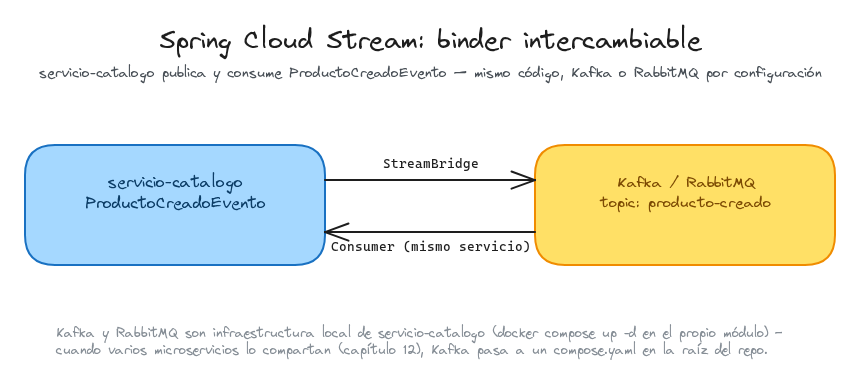
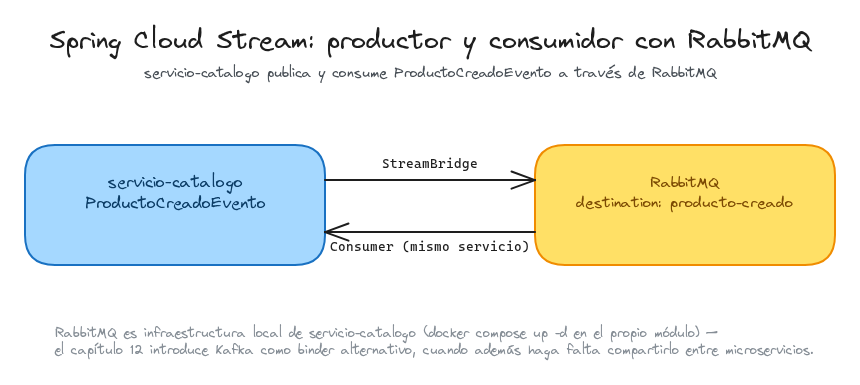
Capítulo 11: dejar el capítulo solo con RabbitMQ, sin Kafka
Corrección tras revisión: este capítulo no debía introducir Kafka en
absoluto (ni el binder, ni el compose.yaml, ni Kafbat UI) — eso queda
para el capítulo 12, junto con la demostración de "mismo código, otro
binder" y el Outbox transaccional.

- pom.xml: fuera spring-cloud-stream-binder-kafka.
- compose.yaml: fuera los servicios kafka/kafka-ui.
- application.yml: fuera defaultBinder (con un solo binder en el
  classpath, Spring Cloud Stream lo elige solo). application-rabbit.yml
  desaparece por completo (ya no hace falta un perfil para cambiar de
  binder si solo hay uno).
- Test: fuera @user("rabbit") (ya no existe ese perfil).
- README, CHECKLIST.md y el diagrama de arquitectura reescritos para
  no mencionar Kafka salvo como referencia a lo que trae el capítulo 12.

Verificado en caliente (docker compose up -d + spring-boot:run): el
binder de RabbitMQ se autoselecciona sin ninguna propiedad explícita,
y el flujo POST -> StreamBridge -> RabbitMQ -> Consumer sigue
funcionando igual. 41/41 tests en verde.

diff --git a/servicio-catalogo/src/test/java/com/javacadabra/tienda/catalogo/infraestructura/adaptador/entrada/mensajeria/ProductoCreadoMensajeriaIntegrationTest.java b/servicio-catalogo/src/test/java/com/javacadabra/tienda/catalogo/infraestructura/adaptador/entrada/mensajeria/ProductoCreadoMensajeriaIntegrationTest.java
@@ -10,7 +10,6 @@ import org.springframework.boot.test.system.CapturedOutput;
 import org.springframework.boot.test.system.OutputCaptureExtension;
 import org.springframework.boot.testcontainers.service.connection.ServiceConnection;
 import org.springframework.context.ApplicationEventPublisher;
-import org.springframework.test.context.ActiveProfiles;
 import org.testcontainers.containers.RabbitMQContainer;
 import org.testcontainers.junit.jupiter.Container;
 import org.testcontainers.junit.jupiter.Testcontainers;
@@ -23,7 +22,6 @@ import static org.assertj.core.api.Assertions.assertThat;
 import static org.awaitility.Awaitility.await;
 
 @SpringBootTest
-@ActiveProfiles("rabbit")
 @Testcontainers
 @ExtendWith(OutputCaptureExtension.class)
 class ProductoCreadoMensajeriaIntegrationTest {

diff --git a/README.md b/README.md
@@ -1,4 +1,4 @@
-# Capítulo 11 — Mensajería asíncrona: Spring Cloud Stream con Kafka y RabbitMQ
+# Capítulo 11 — Mensajería asíncrona: Spring Cloud Stream con RabbitMQ
 
 Undécimo capítulo del tutorial "De cero a pro en arquitectura de microservicios con Spring Boot" (ver el índice completo de capítulos en la rama `main`). Parte directamente de `capitulo-10-archunit-jmolecules`.
 
@@ -15,52 +15,40 @@ Undécimo capítulo del tutorial "De cero a pro en arquitectura de microservicio
 
 ## 1. Motivación y arquitectura general del capítulo
 
-El capítulo 4 introdujo el **Evento de Dominio** (Domain Event) con la mecánica más simple posible: `ApplicationEventPublisher`/`@EventListener` de Spring, publicando y consumiendo `ProductoCreadoEvento`/`RecomendacionAñadidaEvento` dentro del mismo proceso y la misma transacción. Aquel README ya dejaba dicho que el día que esos eventos "salieran del proceso" sería con Kafka, y que lo único que cambiaría sería la implementación de los *listeners*, no el punto de publicación. Este es ese capítulo.
+El capítulo 4 introdujo el **Evento de Dominio** (Domain Event) con la mecánica más simple posible: `ApplicationEventPublisher`/`@EventListener` de Spring, publicando y consumiendo `ProductoCreadoEvento`/`RecomendacionAñadidaEvento` dentro del mismo proceso y la misma transacción. Aquel README ya dejaba dicho que el día que esos eventos "salieran del proceso" sería con un broker de mensajería, y que lo único que cambiaría sería la implementación de los *listeners*, no el punto de publicación. Este es ese capítulo.
 
 Sacar un evento del proceso no es solo un cambio de transporte. Con `@EventListener` síncrono, una excepción en el listener se propaga al hilo que publicó el evento — un oyente roto podía tumbar el caso de uso que lo generó. Con un broker de por medio, el fallo de un consumidor remoto ya no puede propagarse de vuelta: publicador y consumidor quedan desacoplados tanto en el tiempo (el consumidor no tiene por qué estar levantado en el instante en que se publica) como en el fallo (un consumidor caído no bloquea al publicador).
 
 ### Spring Cloud Stream y el Binder
 
-Kafka y RabbitMQ son tecnologías distintas, con APIs distintas. **Spring Cloud Stream** resuelve eso con el concepto de **Binder** (adaptador entre el modelo de programación de Spring — `Supplier`/`Function`/`Consumer` como `@Bean` — y la API concreta de cada broker): el código de negocio, qué se publica y qué hace un consumidor al recibirlo, no cambia; solo cambia qué binder está en el classpath y su configuración (`spring.cloud.stream.bindings.*`). Este capítulo lo demuestra literalmente: el mismo productor y el mismo consumidor, primero sobre Kafka, después sobre RabbitMQ, sin tocar una línea de código de negocio.
+Kafka, RabbitMQ y el resto de brokers de mensajería son tecnologías distintas, con APIs distintas. **Spring Cloud Stream** resuelve eso con el concepto de **Binder** (adaptador entre el modelo de programación de Spring — `Supplier`/`Function`/`Consumer` como `@Bean` — y la API concreta de cada broker): el código de negocio, qué se publica y qué hace un consumidor al recibirlo, no depende de qué binder hay detrás; solo cambia qué binder está en el classpath y su configuración (`spring.cloud.stream.bindings.*`).
 
-Este capítulo se queda deliberadamente en la mecánica: mismo microservicio (`servicio-catalogo`) publicando y consumiendo su propio evento, para demostrar cómo se declara un productor/consumidor con Spring Cloud Stream y cómo se cambia de binder sin tocar código — el consumidor, de momento, sigue siendo un simple log. El [capítulo 12](../../tree/capitulo-12-outbox-transaccional) lleva esta misma pieza al caso con consistencia real entre microservicios: `servicio-pedidos` publicando un evento nuevo, `PedidoCreadoEvento`, consumido por un `servicio-inventario` que nace en ese capítulo para reservar/decrementar stock — con los dos problemas que aparecen en cuanto el mensaje cruza a otro proceso con una consecuencia de negocio real detrás (vender más unidades de las que hay): **Outbox transaccional** (Transactional Outbox) e **Idempotencia** (Idempotency).
+Este capítulo demuestra la mecánica sobre un único binder, **RabbitMQ** — elegido por ser el más sencillo de poner en marcha y de verificar con un test real (ver [sección 3](#3-verificado-con-un-test-de-integración-real-testcontainers--rabbitmq)) —, dentro de `servicio-catalogo`: mismo microservicio publicando y consumiendo su propio evento, para centrarse en cómo se declara un productor y un consumidor con Spring Cloud Stream antes de cruzarlo a otro proceso. El valor real del **Binder** — que ese mismo código funcione también sobre Kafka sin tocar una línea — se demuestra en el [capítulo 12](../../tree/capitulo-12-outbox-transaccional), justo antes de entrar en el caso con consistencia real entre microservicios: `servicio-pedidos` publicando un evento nuevo, `PedidoCreadoEvento`, consumido por un `servicio-inventario` que nace en ese capítulo para reservar/decrementar stock — con los dos problemas que aparecen en cuanto el mensaje cruza a otro proceso con una consecuencia de negocio real detrás (vender más unidades de las que hay): **Outbox transaccional** (Transactional Outbox) e **Idempotencia** (Idempotency).
 
-![Arquitectura del capítulo: servicio-catalogo publicando y consumiendo ProductoCreadoEvento a través de un topic Kafka/RabbitMQ, con StreamBridge como productor y un Consumer<T> como consumidor](docs/images/capitulo-11/arquitectura-mensajeria.png)
+![Arquitectura del capítulo: servicio-catalogo publicando y consumiendo ProductoCreadoEvento a través de un topic RabbitMQ, con StreamBridge como productor y un Consumer<T> como consumidor](docs/images/capitulo-11/arquitectura-mensajeria.png)
 
-*`servicio-catalogo` publica `ProductoCreadoEvento` con `StreamBridge` y lo consume con un `Consumer<T>` — el mismo microservicio a ambos lados del topic, la prueba de que la mecánica funciona antes de cruzarla a otro proceso en el capítulo 12.*
+*`servicio-catalogo` publica `ProductoCreadoEvento` con `StreamBridge` y lo consume con un `Consumer<T>` a través de RabbitMQ — el mismo microservicio a ambos lados, la prueba de que la mecánica funciona antes de cruzarla a otro proceso (y a Kafka) en el capítulo 12.*
 <br>
 
 ## 2. Spring Cloud Stream: el productor y el consumidor de `ProductoCreadoEvento`
 
 ### Dependencia y broker local
 
-Solo hace falta el binder de Kafka; Spring Cloud Stream y Spring Cloud Function llegan como dependencias transitivas suyas:
+Solo hace falta el binder de RabbitMQ; Spring Cloud Stream y Spring Cloud Function llegan como dependencias transitivas suyas:
 
 ```xml
 <!-- servicio-catalogo/pom.xml -->
 <dependency>
 	<groupId>org.springframework.cloud</groupId>
-	<artifactId>spring-cloud-stream-binder-kafka</artifactId>
+	<artifactId>spring-cloud-stream-binder-rabbit</artifactId>
 </dependency>
 ```
 
-`servicio-catalogo/compose.yaml` gana tres servicios nuevos junto al `neo4j` que ya tenía: `kafka` (imagen oficial `apache/kafka`, en modo KRaft — un único nodo hace de *broker* y de *controller* a la vez, sin Zookeeper, tal como el propio proyecto Kafka lo simplificó desde la 3.x), `kafka-ui` (**Kafbat UI**, ver más abajo) y `rabbitmq` (ver la sección de cambio de binder). Los tres son, por ahora, infraestructura exclusiva de este microservicio — nadie más los usa todavía — así que viven en el `compose.yaml` del propio módulo, igual que Neo4j: `spring-boot-docker-compose` los detecta automáticamente al arrancar la aplicación (`docker compose up -d` desde `servicio-catalogo/`, una vez, antes de arrancar el microservicio), sin necesidad de fijar `spring.kafka.bootstrap-servers` a mano — el binder de Kafka de Spring Cloud Stream ya asume `localhost:9092` por defecto, que es exactamente donde el `compose.yaml` del módulo publica el puerto.
+`servicio-catalogo/compose.yaml` gana un servicio `rabbitmq` nuevo (`rabbitmq:4-management`, con Management UI), junto al `neo4j` que ya tenía. Es infraestructura exclusiva de este microservicio — nadie más la usa todavía — así que vive en el `compose.yaml` del propio módulo: `spring-boot-docker-compose` la detecta automáticamente al arrancar la aplicación (`docker compose up -d` desde `servicio-catalogo/`, una vez, antes de arrancar el microservicio), sin necesidad de fijar ninguna propiedad de conexión a mano.
 
-> **¿Por qué mencionar esto explícitamente, si "el binder detecta el broker" ya se sobreentiende de Neo4j/RabbitMQ?**
+> **¿Hace falta indicar qué binder usar, si solo hay uno en el *classpath*?**
 >
-> Porque no siempre va a ser así. El día que Kafka deje de ser exclusivo de `servicio-catalogo` — en el capítulo 12, en cuanto `servicio-pedidos` y `servicio-inventario` también necesiten hablar con él — tendrá que mudarse a un `compose.yaml` compartido en la raíz del repo, y en ese momento `spring-boot-docker-compose` ya no lo detecta automáticamente (solo escanea el `compose.yaml` del propio módulo). Ese capítulo explica esa mudanza y por qué entonces sí hace falta la propiedad explícita — aquí, con un solo microservicio usándolo, no compensa anticiparla.
-
-Ese mismo `compose.yaml` local añade **Kafka UI** (interfaz web para explorar topics y mensajes) — concretamente **Kafbat UI**, no la imagen original de Provectus: el proyecto de Provectus está discontinuado, y los mismos contribuidores originales lo continúan como Kafbat UI, con desarrollo activo.
-
-| Parámetro | Valor |
-|---|---|
-| URL | `http://localhost:8090` |
-| Cluster | `local` |
-
-![Vista de mensajes del topic producto-creado en Kafbat UI, mostrando el payload JSON de dos eventos ProductoCreadoEvento](docs/images/capitulo-11/kafka-ui-mensajes.png)
-
-*Pestaña "Messages" de Kafbat UI sobre el topic `producto-creado`, con el payload JSON real de `ProductoCreadoEvento` publicado por `StreamBridge`.*
-<br>
+> No. `spring.cloud.stream.defaultBinder` solo hace falta cuando hay más de un binder en el *classpath* y Spring Cloud Stream no puede elegir por sí solo — con uno único (RabbitMQ, aquí) lo usa directamente. El capítulo 12 añade el binder de Kafka junto a este, y ahí sí aparece esa propiedad — el mismo mecanismo, con el matiz que aporta tener que elegir entre dos.
 
 ### El consumidor: una función `Consumer<T>` como `@Bean`
 
@@ -78,7 +66,7 @@ public class ProductoCreadoConsumidorConfiguracion {
 }
 ```
 
-Spring Cloud Stream deriva de este bean un *binding* de entrada llamado `productoCreadoConsumidor-in-0` (nombre del bean + `-in-` + índice del parámetro, `0` porque solo hay uno). La configuración conecta ese binding con un topic de Kafka concreto:
+Spring Cloud Stream deriva de este bean un *binding* de entrada llamado `productoCreadoConsumidor-in-0` (nombre del bean + `-in-` + índice del parámetro, `0` porque solo hay uno). La configuración conecta ese binding con un destino concreto del broker:
 
 ```yaml
 # application.yml
@@ -93,7 +81,7 @@ spring:
           group: servicio-catalogo
 ```
 
-`destination` es el nombre del topic; `group` es el *consumer group* de Kafka — sin él, cada instancia del microservicio se suscribiría con un grupo anónimo distinto y todas recibirían una copia de cada mensaje, en vez de repartírselos como réplicas de un mismo consumidor. `spring.cloud.function.definition` le dice explícitamente a Spring Cloud Stream qué beans funcionales activar como *bindings* — necesario aquí porque, al convivir con `StreamBridge` (ver más abajo), la detección automática deja de ser inequívoca.
+`destination` es el nombre lógico del canal (en RabbitMQ, el binder lo traduce a un *exchange*); `group` es el grupo de consumidores — sin él, cada instancia del microservicio se suscribiría de forma anónima y todas recibirían una copia de cada mensaje, en vez de repartírselos como réplicas de un mismo consumidor; con `group`, el binder crea además una cola propia (`destination.group`) ligada a ese *exchange*. `spring.cloud.function.definition` le dice explícitamente a Spring Cloud Stream qué beans funcionales activar como *bindings* — necesario aquí porque, al convivir con `StreamBridge` (ver más abajo), la detección automática deja de ser inequívoca.
 
 ### El productor: `StreamBridge`, no una `Function`
 
@@ -126,46 +114,24 @@ spring:
           destination: producto-creado
 ```
 
-Mismo `destination` (`producto-creado`) en ambos bindings: el productor y el consumidor son, en este capítulo, el mismo microservicio hablando consigo mismo a través del topic — la prueba de que la mecánica funciona antes de cruzarla a otro proceso en el capítulo 12.
+Mismo `destination` (`producto-creado`) en ambos bindings: el productor y el consumidor son, en este capítulo, el mismo microservicio hablando consigo mismo a través del broker — la prueba de que la mecánica funciona antes de cruzarla a otro proceso en el capítulo 12.
 
 > **¿Por qué el `@Bean` del consumidor vive en una clase `@Configuration` con un nombre distinto al del método?**
 >
 > El primer intento nombró la clase igual que el método (`ProductoCreadoConsumidor`, con el bean `productoCreadoConsumidor()`). Spring registra toda clase `@Configuration` como un bean más, con el nombre de la clase en *camelCase* (`productoCreadoConsumidor`) — idéntico al nombre que el método `@Bean` intentaba registrar. El arranque falló con `BeanDefinitionOverrideException` en vez de silenciarlo. La clase se renombró a `ProductoCreadoConsumidorConfiguracion` para que ambos nombres no choquen.
 
-Con esto, el flujo completo — `POST /api/productos` → `ApplicationEventPublisher` (en proceso) → `StreamBridge` → topic `producto-creado` en Kafka → `Consumer<ProductoCreadoEvento>` → log — se verificó arrancando `servicio-catalogo` real contra el Kafka del `compose.yaml` del módulo y creando un producto por REST; el log del lado consumidor confirma la vuelta completa:
+Con esto, el flujo completo — `POST /api/productos` → `ApplicationEventPublisher` (en proceso) → `StreamBridge` → RabbitMQ → `Consumer<ProductoCreadoEvento>` → log — se verificó arrancando `servicio-catalogo` real contra el RabbitMQ del `compose.yaml` del módulo y creando un producto por REST; el log del lado consumidor confirma la vuelta completa:
 
 ```
 Producto creado (vía mensajería asíncrona): 9fca8f33-4cef-4bc2-a38a-400089fab879
 ```
 
-### Cambiar de binder: RabbitMQ, sin tocar código
-
-Con `spring-cloud-stream-binder-rabbit` añadido junto al de Kafka, Spring Cloud Stream ya no puede elegir binder por sí solo — dos binders en el *classpath* son una elección ambigua, y arranca con un error hasta que se resuelve explícitamente. `spring.cloud.stream.defaultBinder` decide cuál usar por defecto:
-
-```yaml
-# application.yml (perfil por defecto)
-spring:
-  cloud:
-    stream:
-      defaultBinder: kafka
-```
-
-```yaml
-# application-rabbit.yml
-spring:
-  cloud:
-    stream:
-      defaultBinder: rabbit
-```
-
-Ni `ProductoCreadoListener` ni `ProductoCreadoConsumidorConfiguracion` cambian una línea. Arrancar con `--spring.profiles.active=rabbit` (o `-Dspring-boot.run.profiles=rabbit` con el plugin de Maven) mueve el mismo productor y el mismo consumidor a RabbitMQ: el binder crea un *exchange* `producto-creado` (incluido en `destination`) y una cola `producto-creado.servicio-catalogo` (`destination.group`), visibles en el Management UI de RabbitMQ (`rabbitmq:4-management` en el `compose.yaml`, puerto `15672`, usuario/contraseña `guest`/`guest`):
+El *exchange* `producto-creado` y la cola `producto-creado.servicio-catalogo` (`destination.group`) que el binder crea automáticamente son visibles en el Management UI de RabbitMQ (puerto `15672`, usuario/contraseña `guest`/`guest`):
 
 ![Cola producto-creado.servicio-catalogo en el Management UI de RabbitMQ, con 0 mensajes pendientes tras haber sido consumido](docs/images/capitulo-11/rabbitmq-management-colas.png)
 
 *Pestaña "Queues and Streams" del Management UI de RabbitMQ, tras crear un producto por REST: la cola `producto-creado.servicio-catalogo` existe, sin mensajes pendientes porque `servicio-catalogo` ya la consumió.*
 <br>
-
-Repitiendo el mismo `POST /api/productos` con el perfil `rabbit` activo, el log del consumidor es idéntico al de Kafka — la mecánica (`Consumer<ProductoCreadoEvento>`, `StreamBridge`, `destination`/`group`) es la misma; solo cambió qué broker hay detrás.
 
 ## 3. Verificado con un test de integración real: Testcontainers + RabbitMQ
 
@@ -174,7 +140,6 @@ Todo lo anterior —que `StreamBridge` publica de verdad, que el `Consumer<T>` r
 ```java
 // infraestructura/adaptador/entrada/mensajeria/ProductoCreadoMensajeriaIntegrationTest.java
 @SpringBootTest
-@ActiveProfiles("rabbit")
 @Testcontainers
 @ExtendWith(OutputCaptureExtension.class)
 class ProductoCreadoMensajeriaIntegrationTest {
@@ -202,14 +167,13 @@ class ProductoCreadoMensajeriaIntegrationTest {
 Pieza por pieza:
 
 - **`@Container`** (Testcontainers) marca `rabbitmq` como un contenedor gestionado por el test: se arranca antes de la clase y se destruye al terminar — nada que instalar ni dejar corriendo de fondo, igual que ya hace `StockRepositorioAdaptadorIntegrationTest` en capítulos posteriores con PostgreSQL.
-- **`@ServiceConnection`** (Spring Boot) rellena automáticamente la configuración de conexión (`spring.rabbitmq.*`) apuntando al contenedor recién levantado, con el puerto aleatorio real que Docker le asignó — sin escribir esa propiedad a mano.
-- **`@ActiveProfiles("rabbit")`** activa `application-rabbit.yml`, el mismo perfil de la sección anterior, para que Spring Cloud Stream elija el binder de RabbitMQ en vez del de Kafka (el binder por defecto) durante este test.
+- **`@ServiceConnection`** (Spring Boot) rellena automáticamente la configuración de conexión (`spring.rabbitmq.*`) apuntando al contenedor recién levantado, con el puerto aleatorio real que Docker le asignó — sin escribir esa propiedad a mano. Esto es todo lo que hace falta aquí: el binder de RabbitMQ de Spring Cloud Stream reutiliza el `ConnectionFactory` estándar de Spring Boot, el mismo que `@ServiceConnection` ya configura.
 - **`CapturedOutput`/`OutputCaptureExtension`** (Spring Boot) capturan todo lo que se escribe por log durante el test. Como `ProductoCreadoConsumidorConfiguracion` ya logueaba la línea que se ve más arriba como verificación manual, el test reutiliza ese mismo log como prueba de que el consumidor real la recibió, sin tocar código de producción.
 - **`await().untilAsserted(...)`** (Awaitility, incluida en las dependencias de test de Spring Boot) es necesaria porque esto es asíncrono de verdad: publicar el evento no bloquea hasta que el broker lo entrega. Un `assertThat` normal fallaría casi siempre por pura carrera; `await()` reintenta la comprobación hasta que se cumple o pasa el tiempo máximo.
 
-> **¿Por qué RabbitMQ para este test, y no Kafka, si el binder por defecto del capítulo es Kafka?**
+> **¿Será igual de simple cuando el capítulo 12 añada el test equivalente para Kafka?**
 >
-> Porque `@ServiceConnection` con RabbitMQ es todo lo que hace falta: el binder de RabbitMQ de Spring Cloud Stream reutiliza el `ConnectionFactory` estándar de Spring Boot, el mismo que `@ServiceConnection` ya configura. Con Kafka no es tan directo — el binder de Kafka tiene su propia propiedad de broker (`spring.cloud.stream.kafka.binder.brokers`), independiente de la que `@ServiceConnection` rellena para Spring Boot, y hace falta un paso extra para conectarlas. El capítulo 12 retoma este mismo patrón de test con Kafka y explica ese matiz con detalle, precisamente porque ahí es donde se nota.
+> No del todo, y merece la pena adelantarlo. El binder de Kafka de Spring Cloud Stream, a diferencia del de RabbitMQ, no reutiliza el `ConnectionFactory` que `@ServiceConnection` ya rellena — tiene su propia propiedad de broker (`spring.cloud.stream.kafka.binder.brokers`), independiente de la que Spring Boot configura automáticamente para el cliente de Kafka estándar. Hace falta un paso extra para conectar ambas. El capítulo 12 retoma este mismo patrón de test con Kafka y explica ese matiz con detalle, precisamente porque ahí es donde se nota.
 
 ## 4. Cómo probarlo
 
@@ -227,7 +191,7 @@ docker compose up -d
 ./mvnw -pl servicio-catalogo spring-boot:run
 ```
 
-Crear una categoría y un producto — el alta del producto dispara, de fondo, el productor y el consumidor sobre Kafka (binder por defecto):
+Crear una categoría y un producto — el alta del producto dispara, de fondo, el productor y el consumidor:
 
 ```bash
 curl -X POST http://localhost:8080/api/categorias \
@@ -243,15 +207,7 @@ curl -X POST http://localhost:8080/api/productos \
 # => {"id":"<productoId>","nombre":"Balón", ...}
 ```
 
-El log del propio proceso (terminal donde corre `spring-boot:run`) muestra la línea `Producto creado (vía mensajería asíncrona): <productoId>` en cuanto el consumidor recibe el evento. También puede comprobarse en **Kafbat UI** (`http://localhost:8090`, ver [sección 2](#2-spring-cloud-stream-el-productor-y-el-consumidor-de-productocreadoevento)): pestaña *Messages* del topic `producto-creado`, con el payload JSON real del evento.
-
-Para repetir la prueba sobre RabbitMQ en vez de Kafka, parar el proceso y volver a arrancarlo con el perfil `rabbit` activo:
-
-```bash
-./mvnw -pl servicio-catalogo spring-boot:run -Dspring-boot.run.profiles=rabbit
-```
-
-El mismo `POST /api/productos` de antes produce el mismo log — y la cola `producto-creado.servicio-catalogo` puede inspeccionarse en el Management UI de RabbitMQ (`http://localhost:15672`, usuario/contraseña `guest`/`guest`).
+El log del propio proceso (terminal donde corre `spring-boot:run`) muestra la línea `Producto creado (vía mensajería asíncrona): <productoId>` en cuanto el consumidor recibe el evento. También puede comprobarse en el Management UI de RabbitMQ (`http://localhost:15672`, usuario/contraseña `guest`/`guest`): la cola `producto-creado.servicio-catalogo` existe y no acumula mensajes pendientes.
 
 Para parar todo:
 
@@ -268,24 +224,22 @@ docker compose down
 
 |  | Archivo | Descripción funcional | Descripción del cambio |
 |:---:|---|---|---|
-| ✏️ | [`pom.xml`](servicio-catalogo/pom.xml) | Configuración Maven del módulo | Añade los binders de Kafka y RabbitMQ de Spring Cloud Stream (`spring-cloud-stream-binder-kafka`, `spring-cloud-stream-binder-rabbit`) y el módulo de Testcontainers para RabbitMQ (`org.testcontainers:rabbitmq`) |
-| ✏️ | [`compose.yaml`](servicio-catalogo/compose.yaml) | Infraestructura local exclusiva del microservicio | Añade Kafka (`apache/kafka`, KRaft), Kafbat UI y RabbitMQ (`rabbitmq:4-management`) junto al Neo4j ya existente |
-| ✏️ | [`application.yml`](servicio-catalogo/src/main/resources/application.yml) | Configuración de Spring Boot del microservicio | Añade la función activa y los *bindings* de entrada/salida de Spring Cloud Stream para el topic `producto-creado`, y `defaultBinder: kafka` |
-| 🌱 | [`application-rabbit.yml`](servicio-catalogo/src/main/resources/application-rabbit.yml) | Perfil que cambia el binder por defecto a RabbitMQ (`defaultBinder: rabbit`), sin tocar código | --- |
+| ✏️ | [`pom.xml`](servicio-catalogo/pom.xml) | Configuración Maven del módulo | Añade el binder de RabbitMQ de Spring Cloud Stream (`spring-cloud-stream-binder-rabbit`) y el módulo de Testcontainers para RabbitMQ (`org.testcontainers:rabbitmq`) |
+| ✏️ | [`compose.yaml`](servicio-catalogo/compose.yaml) | Infraestructura local exclusiva del microservicio | Añade RabbitMQ (`rabbitmq:4-management`) junto al Neo4j ya existente |
+| ✏️ | [`application.yml`](servicio-catalogo/src/main/resources/application.yml) | Configuración de Spring Boot del microservicio | Añade la función activa y los *bindings* de entrada/salida de Spring Cloud Stream para el destino `producto-creado` |
 
 ### Infraestructura de entrada
 
 |  | Archivo | Descripción funcional | Descripción del cambio |
 |:---:|---|---|---|
 | ✏️ | [`ProductoCreadoListener.java`](servicio-catalogo/src/main/java/com/javacadabra/tienda/catalogo/infraestructura/adaptador/entrada/evento/ProductoCreadoListener.java) | Reacciona en proceso a `ProductoCreadoEvento` | Su implementación pasa de solo loguear a reenviar el evento al broker vía `StreamBridge` |
-| 🌱 | [`ProductoCreadoConsumidorConfiguracion.java`](servicio-catalogo/src/main/java/com/javacadabra/tienda/catalogo/infraestructura/adaptador/entrada/mensajeria/ProductoCreadoConsumidorConfiguracion.java) | Consumidor del topic `producto-creado` (`Consumer<ProductoCreadoEvento>`), agnóstico del binder | --- |
+| 🌱 | [`ProductoCreadoConsumidorConfiguracion.java`](servicio-catalogo/src/main/java/com/javacadabra/tienda/catalogo/infraestructura/adaptador/entrada/mensajeria/ProductoCreadoConsumidorConfiguracion.java) | Consumidor del destino `producto-creado` (`Consumer<ProductoCreadoEvento>`), agnóstico del binder | --- |
 
 ### Documentación/diagramas
 
 |  | Archivo | Descripción funcional | Descripción del cambio |
 |:---:|---|---|---|
 | 🌱 | [`rabbitmq-management-colas.png`](docs/images/capitulo-11/rabbitmq-management-colas.png) | Captura del Management UI de RabbitMQ, pestaña "Queues and Streams" | --- |
-| 🌱 | [`kafka-ui-mensajes.png`](docs/images/capitulo-11/kafka-ui-mensajes.png) | Captura de Kafbat UI, mensajes del topic `producto-creado` | --- |
 | 🌱 | [`capitulo-11-mensajeria-arquitectura.excalidraw`](docs/diagramas/capitulo-11-mensajeria-arquitectura.excalidraw) | Diagrama de arquitectura del capítulo | --- |
 | 🌱 | [`arquitectura-mensajeria.png`](docs/images/capitulo-11/arquitectura-mensajeria.png) | Render PNG del diagrama anterior | --- |
 
@@ -298,9 +252,6 @@ docker compose down
 ## 6. Referencias
 
 - [Spring Cloud Stream — Reference Documentation](https://docs.spring.io/spring-cloud-stream/reference/)
-- [Spring Cloud Stream — Kafka Binder](https://docs.spring.io/spring-cloud-stream/reference/kafka/spring-cloud-stream-binder-kafka.html)
 - [Spring Cloud Stream — RabbitMQ Binder](https://docs.spring.io/spring-cloud-stream/reference/rabbit/spring-cloud-stream-binder-rabbit.html)
-- [Apache Kafka — Docker documentation (imagen `apache/kafka`)](https://github.com/apache/kafka/blob/trunk/docker/examples/README.md)
-- [Kafbat UI — GitHub](https://github.com/kafbat/kafka-ui)
 - [Testcontainers — RabbitMQ Module](https://java.testcontainers.org/modules/rabbitmq/)
 - [Spring Boot — Testcontainers (Service Connections)](https://docs.spring.io/spring-boot/reference/testing/testcontainers.html)

diff --git a/CHECKLIST.md b/CHECKLIST.md
@@ -6,7 +6,7 @@ Estado de las tecnologías/temas cubiertos en el tutorial, capítulo a capítulo
 
 Orden recomendado para los capítulos 11 en adelante, sujeto a revisión al planificar cada uno (como el resto del tutorial, el alcance final de cada capítulo se decide en conversación, no de antemano). Los puntos ya cubiertos se retiran de esta lista en vez de tacharse — el detalle de qué se hizo y en qué capítulo queda registrado en las secciones de estado más abajo, no aquí.
 
-1. **Outbox transaccional + consumidores idempotentes (Spring Cloud Stream, `servicio-inventario`)** — el capítulo 11 ya cubrió la mecánica de Spring Cloud Stream (binder Kafka/RabbitMQ intercambiable) sobre `servicio-catalogo`; este capítulo la lleva al caso real entre microservicios: `servicio-pedidos` publica `PedidoCreadoEvento` al confirmar un pedido, consumido por un `servicio-inventario` nuevo (sin API REST/OpenAPI/resiliencia propias) que reserva/decrementa stock. **Outbox transaccional**: publicar en el broker ya no es atómico con el commit en base de datos como lo era `ApplicationEventPublisher` síncrono del capítulo 4 — guardar el evento en la misma transacción que el cambio de estado (tabla outbox) y publicarlo aparte (poller) evita el problema de doble escritura. **Consumidores idempotentes**: un mensaje puede entregarse más de una vez (redelivery); los listeners deben poder procesar el mismo evento dos veces sin duplicar el efecto (p. ej. clave de deduplicación por id de evento).
+1. **Kafka como segundo binder + Outbox transaccional + consumidores idempotentes (Spring Cloud Stream, `servicio-inventario`)** — el capítulo 11 ya cubrió la mecánica de Spring Cloud Stream sobre `servicio-catalogo`, pero solo con RabbitMQ; este capítulo añade el binder de Kafka junto al de RabbitMQ y demuestra el valor real del Binder (mismo productor/consumidor, otro broker, solo configuración) antes de llevar la mecánica al caso real entre microservicios: `servicio-pedidos` publica `PedidoCreadoEvento` al confirmar un pedido, consumido por un `servicio-inventario` nuevo (sin API REST/OpenAPI/resiliencia propias) que reserva/decrementa stock. **Outbox transaccional**: publicar en el broker ya no es atómico con el commit en base de datos como lo era `ApplicationEventPublisher` síncrono del capítulo 4 — guardar el evento en la misma transacción que el cambio de estado (tabla outbox) y publicarlo aparte (poller) evita el problema de doble escritura. **Consumidores idempotentes**: un mensaje puede entregarse más de una vez (redelivery); los listeners deben poder procesar el mismo evento dos veces sin duplicar el efecto (p. ej. clave de deduplicación por id de evento).
 2. **Patrón Saga + compensación** — con Pedidos+Catálogo (y quizá Pagos) compartiendo una transacción de negocio. Los pasos de compensación también deben ser idempotentes (mismo motivo que los consumidores del punto 1): un paso de compensación reintentado no debe deshacer dos veces el mismo efecto.
 3. **Observabilidad — Actuator + Micrometer** — instrumentar el servicio: exponer `/actuator/health`/`/actuator/metrics` y métricas propias (`@Timed`, `MeterRegistry`) sobre los casos de uso ya existentes. Micrometer es la fachada que Actuator usa por debajo; separarlo de Prometheus/Grafana dejaría claro qué aporta cada capa antes de meter infraestructura nueva en `compose.yaml`.
 4. **Observabilidad — Prometheus + Grafana** — recolectar y visualizar: exponer `/actuator/prometheus`, levantar Prometheus y Grafana en `compose.yaml`, configurar el scraping y montar un dashboard real sobre las métricas del capítulo anterior. Con tráfico real entre servicios y mensajería de por medio, hay algo real que observar.
@@ -67,7 +67,7 @@ Descartados por forzados para este dominio o sin desarrollo futuro: Spring for A
 
 ## Comunicación entre servicios
 - [x] Cliente REST declarativo: HTTP Service Client de Spring Framework (`@HttpExchange` + `@ImportHttpServices`, sobre `RestClient`) — no OpenFeign (capítulo 7): `servicio-pedidos` consulta el precio real de cada producto a `servicio-catalogo` al crear un pedido, con una Capa Anticorrupción (`CatalogoPuertoSalida`/`ProductoCatalogoDTO`) entre el contrato HTTP ajeno y el dominio propio. Requiere `spring-boot-starter-restclient` además de `-webmvc` — la autoconfiguración de `spring.http.serviceclient.*` vive en ese módulo aparte (lado cliente), no en el de servidor
-- [x] Mensajería asíncrona (Spring Cloud Stream, capítulo 11) — `servicio-catalogo` publica y consume `ProductoCreadoEvento` vía `StreamBridge`/`Consumer<T>`, primero sobre Kafka (`apache/kafka`, KRaft) y después sobre RabbitMQ sin tocar código de negocio, solo `spring.cloud.stream.defaultBinder`. Verificado con un test de integración real (`Testcontainers` + `RabbitMQContainer`, `@ServiceConnection`), no solo a mano
+- [ ] Mensajería asíncrona (Spring Cloud Stream) — arrancado en el capítulo 11: `servicio-catalogo` publica y consume `ProductoCreadoEvento` vía `StreamBridge`/`Consumer<T>` sobre RabbitMQ, verificado con un test de integración real (`Testcontainers` + `RabbitMQContainer`, `@ServiceConnection`), no solo a mano. El capítulo 12 añade el binder de Kafka junto al de RabbitMQ y demuestra el valor real del Binder (mismo código, otro broker, solo configuración) antes de entrar en Outbox transaccional + idempotencia
 - [ ] API Gateway (Spring Cloud Gateway) — punto de entrada único para los microservicios expuestos
 
 ## Resiliencia